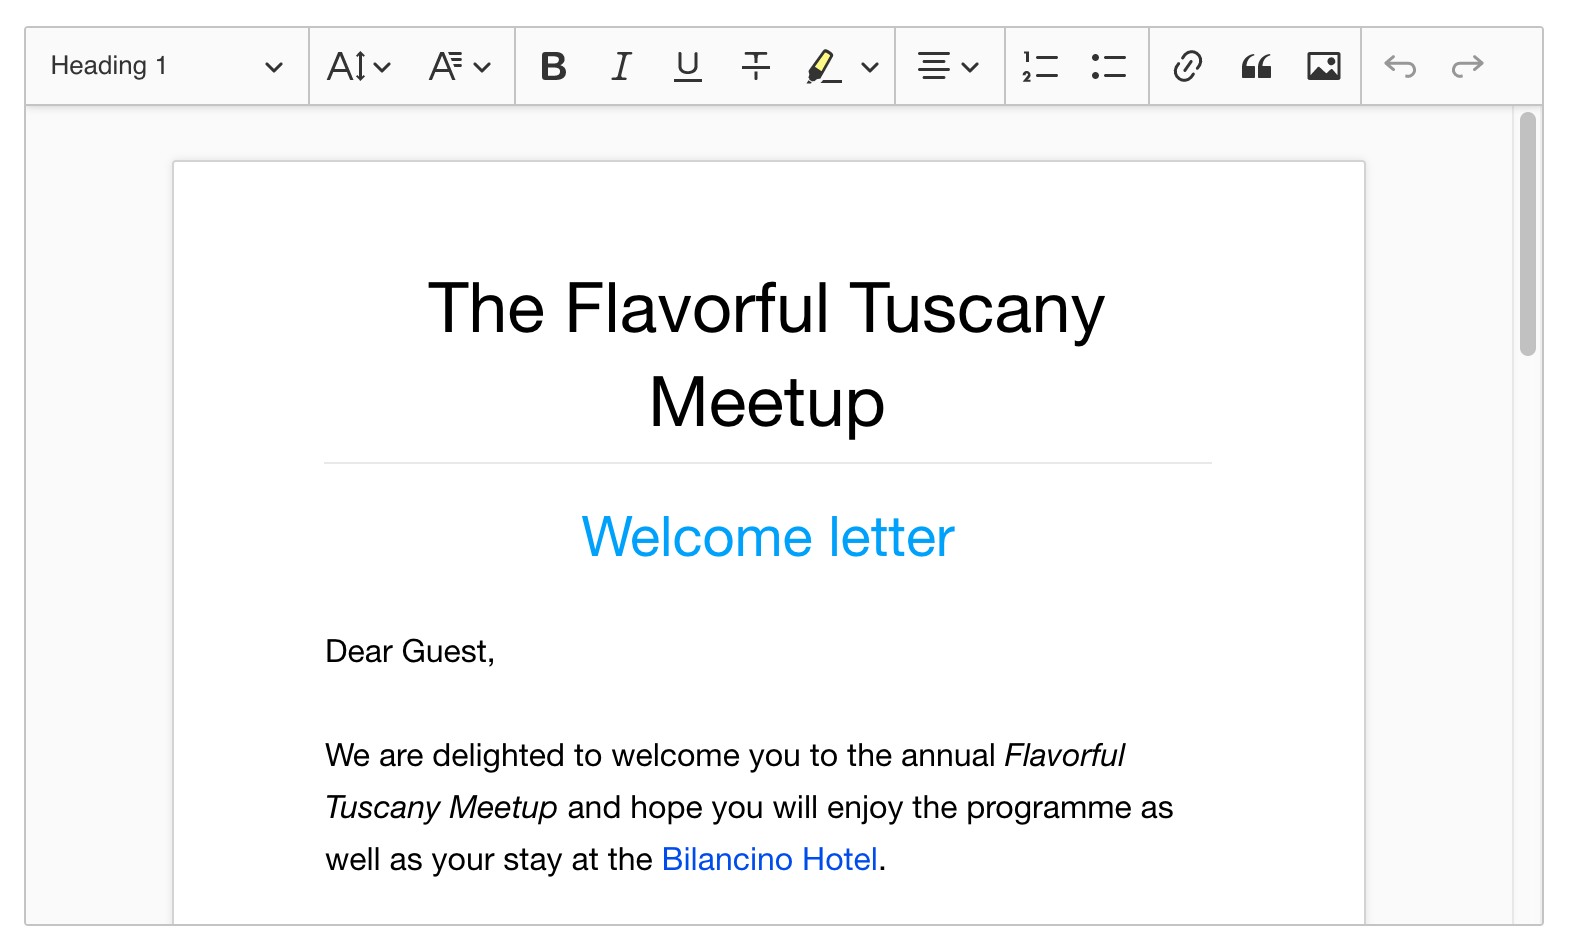
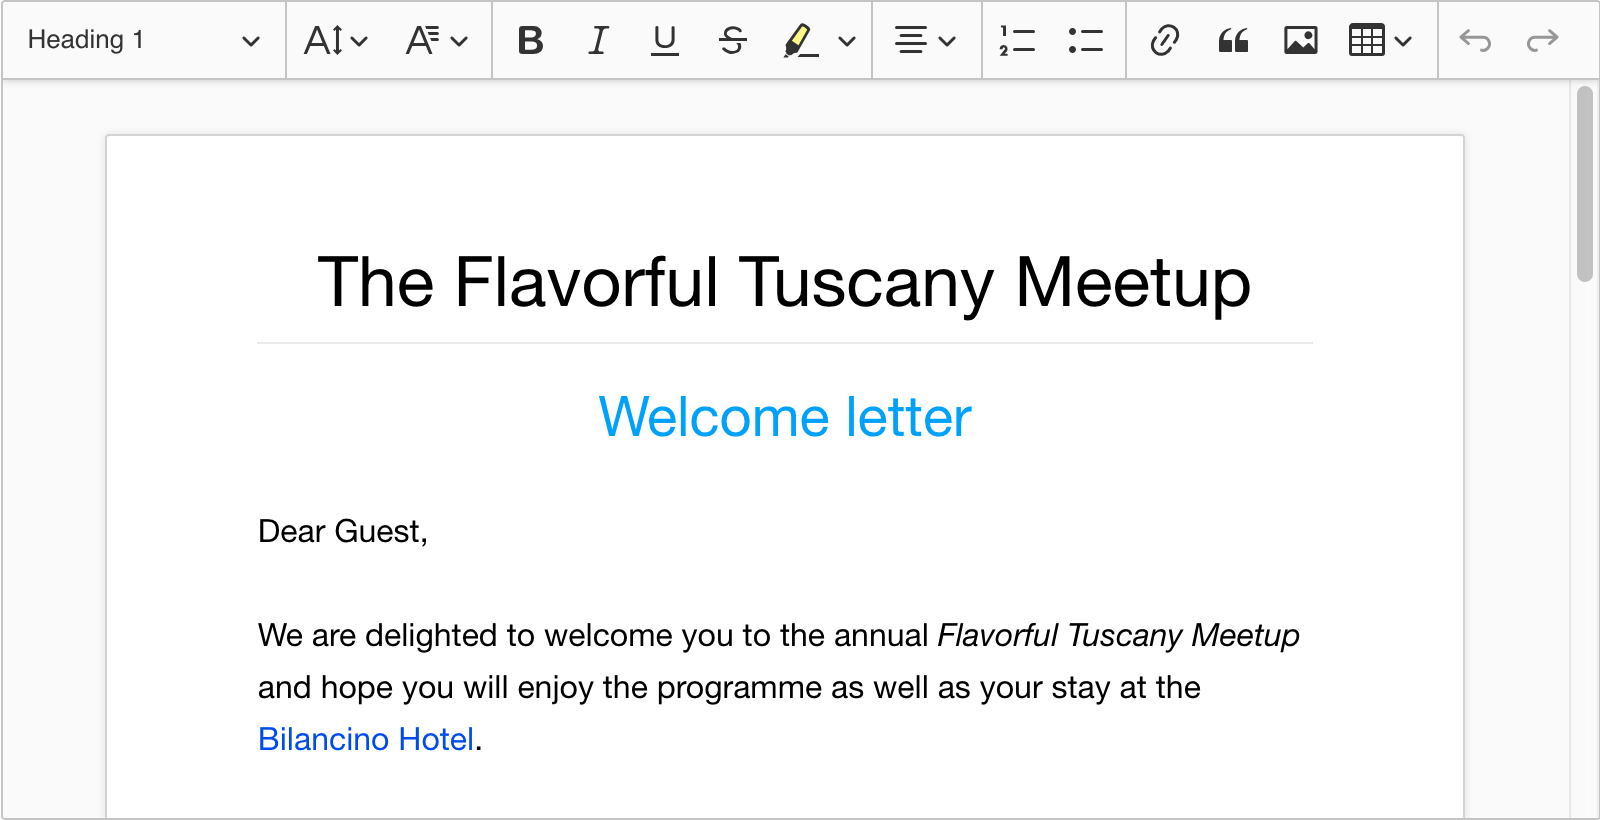
Docs: Updated the document editor example with a table markup. Updated document editor screenshot (see ckeditor/ckeditor5-build-decoupled-document#12).

diff --git a/docs/_snippets/examples/document-editor.html b/docs/_snippets/examples/document-editor.html
@@ -9,11 +9,27 @@
 			<p>We are delighted to welcome you to the annual <em>Flavorful Tuscany Meetup</em> and hope you will enjoy the programme as well as your stay at the <a href="http://ckeditor.com">Bilancino Hotel</a>.</p>
 			<p>Please find below the full schedule of the event.</p>
 
-			<ul>
-				<li>9:30 AM - 11:30 AM	Americano vs. Brewed - “know your coffee” session with <strong>Stefano Garau</strong></li>
-				<li>1:00 PM - 3:00 PM	Pappardelle al pomodoro - live cooking session with <strong>Rita Fresco</strong></li>
-				<li>5:00 PM - 8:00 PM	Tuscan vineyards at a glance - wine-tasting session with <strong>Frederico Riscoli</strong></li>
-			</ul>
+			<table>
+				<thead>
+					<tr>
+						<th colspan="2">Saturday, July 14</th>
+					</tr>
+				</thead>
+				<tbody>
+					<tr>
+						<td>9:30&nbsp;AM&nbsp;-&nbsp;11:30&nbsp;AM</td>
+						<td>Americano vs. Brewed - “know your coffee” session with <strong>Stefano Garau</strong></td>
+					</tr>
+					<tr>
+						<td>1:00&nbsp;PM&nbsp;-&nbsp;3:00&nbsp;PM</td>
+						<td>Pappardelle al pomodoro - live cooking session with <strong>Rita Fresco</strong></td>
+					</tr>
+					<tr>
+						<td>5:00&nbsp;PM&nbsp;-&nbsp;8:00&nbsp;PM</td>
+						<td>Tuscan vineyards at a glance - wine-tasting session with <strong>Frederico Riscoli</strong></td>
+					</tr>
+				</tbody>
+			</table>
 
 			<blockquote>
 				<p>The annual Flavorful Tuscany meetups are always a culinary discovery. You get the best of Tuscan flavors during an intense one-day stay at one of the top hotels of the region. All the sessions are lead by top chefs passionate about their profession. I would certainly recommend to save the date in your calendar for this one!</p>

diff --git a/docs/builds/guides/overview.md b/docs/builds/guides/overview.md
@@ -60,7 +60,7 @@ To try it out online, check the {@link examples/builds/balloon-editor balloon ed
 
 The document editor is focused on rich text editing experience similar to the native word processors. It works best for creating documents which are usually later printed or exported to PDF files.
 
-{@img assets/img/editor-document.png 786 Screenshot of the user interface of the document editor.}
+{@img assets/img/editor-document.png 800 Screenshot of the user interface of the document editor.}
 
 To try it out online, check the {@link examples/builds/document-editor document editor example}. Jump to {@link builds/guides/quick-start#document-editor Quick start} to start using it.
 
